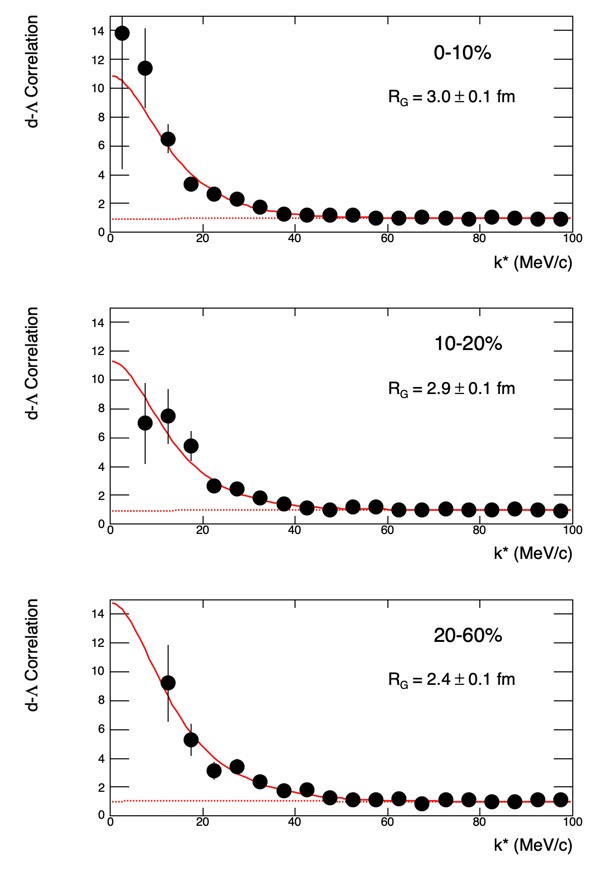
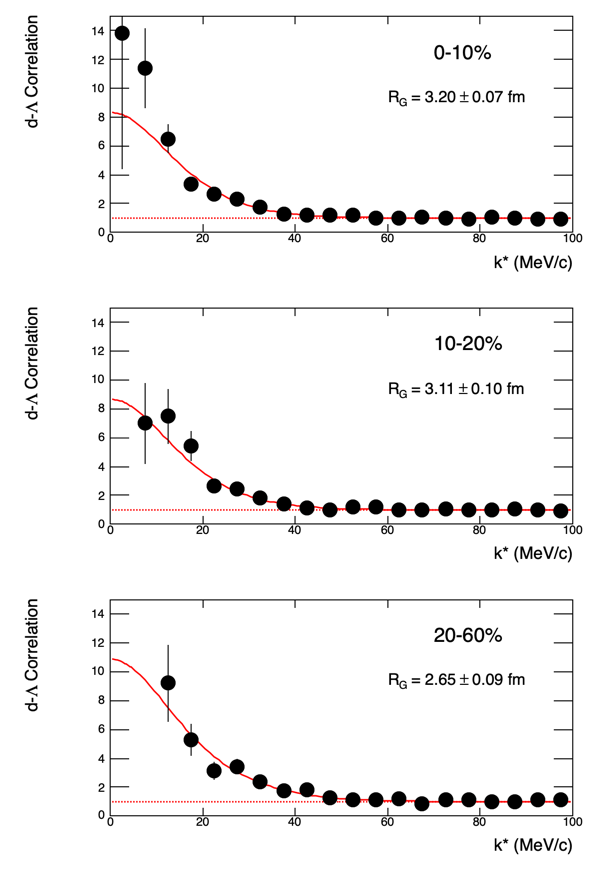
added one parameter to allow efficiency for doublet component. However, fixed eff parameter doesn't give the same result as removing this parameters - TBC

diff --git a/Hypernuclei/dLambda/Ckstar.C b/Hypernuclei/dLambda/Ckstar.C
@@ -1,11 +1,16 @@
 #include "style.C+"
 #include "draw.C+"
+#define __EFF__  // allow efficiency for doublet?
 
 const double hbarc = 197.327;  // MeV * fm
 const double sqrtPi = TMath::Sqrt( TMath::Pi() );
 const Int_t NC = 3;
 const Int_t NP = 20;  // read in 40 points
-const Int_t NPar = 7;  // R0, R1, R2, f00, d00, f01, d01
+#ifdef __EFF__
+const Int_t NPar = 8;  // R0, R1, R2, f00, d00, f01, d01, eff
+#else
+const Int_t NPar = 7;  // R0, R1, R2, f00, d00, f01, d01,
+#endif
 const Char_t *Name[NC] = {"0to10","10to20","20to60"};
 const Char_t *LabelName[NC] = {"0-10%","10-20%","20-60%"};
 TGraphErrors *gr_data[NC];  //
@@ -64,17 +69,26 @@ const double LL(const double kstar, const double R, const double f0, const doubl
 
 
 double CF_dl_0(double *x, double *par)
-//const double kstar, const double R, const double f00, const double d00, const double f01, const double d01)
 {
-  return 1 + 1./3*LL(x[0], par[0], par[1], par[2]);
+  return 1 + 1./3 * LL(x[0], par[0], par[1], par[2]);
+}
+
+double CF_dl_0_eff(double *x, double *par)
+{
+  double eff = par[3];
+  return 1 + eff/(eff+2.) * LL(x[0], par[0], par[1], par[2]);
 }
 
 double CF_dl(double *x, double *par)
-//const double kstar, const double R, const double f00, const double d00, const double f01, const double d01)
 {
-  return 1 + 1./3*LL(x[0], par[0], par[1], par[2]) + 2./3*LL(x[0], par[0], par[3], par[4]);
+  return 1 + 1./3 * LL(x[0], par[0], par[1], par[2]) + 2./3 * LL(x[0], par[0], par[3], par[4]);
 }
 
+double CF_dl_eff(double *x, double *par)
+{
+  double eff = par[5];
+  return 1 + eff/(eff+2.) * LL(x[0], par[0], par[1], par[2]) + 2./(eff+2.) * LL(x[0], par[0], par[3], par[4]);
+}
 
 void draw()
 {
@@ -113,6 +127,9 @@ void fcn(int &npar, double *gin, double &f, double *par,int iflag ) {
     cf_fun[ic]->SetParameter(2, par[4]);
     cf_fun[ic]->SetParameter(3, par[5]);
     cf_fun[ic]->SetParameter(4, par[6]);
+#ifdef __EFF__
+    cf_fun[ic]->SetParameter(5, par[7]);
+#endif
     for(int i=0;i<gr_data[ic]->GetN();i++){
       double kstar = gr_data[ic]->GetX()[i];
       
@@ -141,8 +158,13 @@ void Ckstar()
 
   TF1 *cf_fun_0[NC];  // doublet contribution only
   for(int ic=0;ic<NC;ic++) {
+#ifdef __EFF__
+    cf_fun[ic] = new TF1(Form("cf_fun_%d",ic),CF_dl_eff,0,200,6);
+    cf_fun_0[ic] = new TF1(Form("cf_fun_0_%d",ic), CF_dl_0_eff,0,200,4);
+#else
     cf_fun[ic] = new TF1(Form("cf_fun_%d",ic),CF_dl,0,200,5);
     cf_fun_0[ic] = new TF1(Form("cf_fun_0_%d",ic), CF_dl_0,0,200,3);
+#endif
   }
 
   TCanvas *c1 = new TCanvas("c1","c1",0,0,600,900);
@@ -150,10 +172,17 @@ void Ckstar()
   c1->Draw();
   
   //  double var[NPar] = {2.8, 2.6, 2.5, -16., 2.3, 10., 3.6};
-  double var[NPar] = {2.8, 2.6, 2.5, -16., 2.3, 10., 3.6};
-  double verr[NPar] = {0.1, 0.1, 0.1, 0.1, 0.1, 0.1, 0.01};
-  double var_min[NPar] = {2.0, 2.0, 2.0, -100., 2.3, 0., 3.6};
-  double var_max[NPar] = {4.0, 4.0, 4.0, -0., 2.3, 20., 3.6};
+#ifdef __EFF__
+  double var[NPar] = {3.0, 2.9, 2.4, -16., 2.3, 17.3, 3.6, 1.0};
+  double verr[NPar] = {0.3, 0.3, 0.3, 0.3, 0.1, 0.3, 0.1, 0.05};
+  double var_min[NPar] = {2.0, 2.0, 2.0, -50., 2.3, 0, 3.6, 1.0};
+  double var_max[NPar] = {4.0, 4.0, 4.0, -0., 2.3, 50., 3.6, 1.0};
+#else
+  double var[NPar] = {3.0, 2.9, 2.4, -16., 2.3, 17.3, 3.6};
+  double verr[NPar] = {0.3, 0.3, 0.3, 0.3, 0.1, 0.3, 0.1};
+  double var_min[NPar] = {2.0, 2.0, 2.0, -50., 2.3, 0, 3.6};
+  double var_max[NPar] = {4.0, 4.0, 4.0, -0., 2.3, 50., 3.6};
+#endif
   
   double err_mat[NPar][NPar];
   
@@ -161,13 +190,15 @@ void Ckstar()
   gMinuit->SetFCN(fcn);
 
   double arglist[10];
+#ifdef __EFF__
+  Char_t PARM_NAMES[NPar][255]={"R0","R1","R2","f0_0","d0_0","f0_1","d0_1", "eff"};
+#else
   Char_t PARM_NAMES[NPar][255]={"R0","R1","R2","f0_0","d0_0","f0_1","d0_1"};
+#endif
   
-  double PARM_START[2]={1,1};
-  double PARM_STEP[2]={0.1,0.1};  
   int ivarbl,ierflg;
   double bnd1, bnd2;
-  double minchi2=100;
+  double minchi2=500;
   double a1=100;
   double a2=50;
   double eff = 1;
@@ -185,7 +216,6 @@ void Ckstar()
   arglist[1] = 0.001;
   gMinuit->mnexcm("MINOS", arglist, 2, ierflg );
   cout<<"********************************************************************************************************"<<endl;
-  cout<<""<<endl;
   cout<<""<<endl;
   cout<<"Here are the results:"<<endl;
   cout<<""<<endl;
@@ -214,6 +244,9 @@ void Ckstar()
     cf_fun[ip]->SetParameter(2, var[4]);
     cf_fun[ip]->SetParameter(3, var[5]);
     cf_fun[ip]->SetParameter(4, var[6]);
+#ifdef __EFF__
+    cf_fun[ip]->SetParameter(5, var[7]);
+#endif
     cf_fun[ip]->SetLineStyle(1);
     cf_fun[ip]->SetLineWidth(3);
     cf_fun[ip]->Draw("c same");
@@ -221,6 +254,9 @@ void Ckstar()
     cf_fun_0[ip]->SetParameter(0, var[ip]);
     cf_fun_0[ip]->SetParameter(1, var[3]);
     cf_fun_0[ip]->SetParameter(2, var[4]);
+#ifdef __EFF__
+    cf_fun_0[ip]->SetParameter(3, var[7]);
+#endif
     cf_fun_0[ip]->SetLineStyle(2);
     cf_fun_0[ip]->SetLineWidth(3);
     cf_fun_0[ip]->Draw("c same");
@@ -229,7 +265,7 @@ void Ckstar()
     gr_data[ip]->Draw("p");
 
     drawText(70, 12, LabelName[ip], 42, 0.08);
-    drawText(60, 9, Form("R_{G} = %3.1f #pm %3.1f fm", var[ip], verr[ip]), 42, 0.07);
+    drawText(60, 9, Form("R_{G} = %4.2f #pm %4.2f fm", var[ip], verr[ip]), 42, 0.065);
   }
 
   c1->Update();
